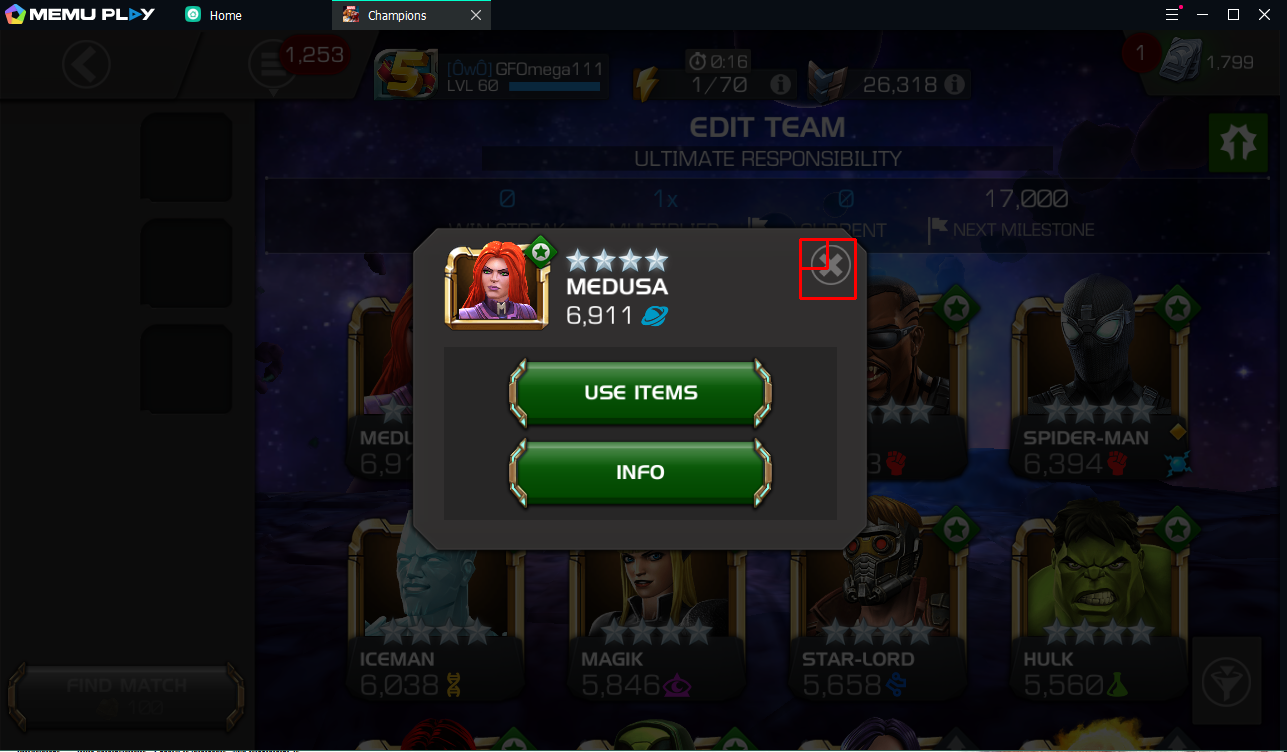
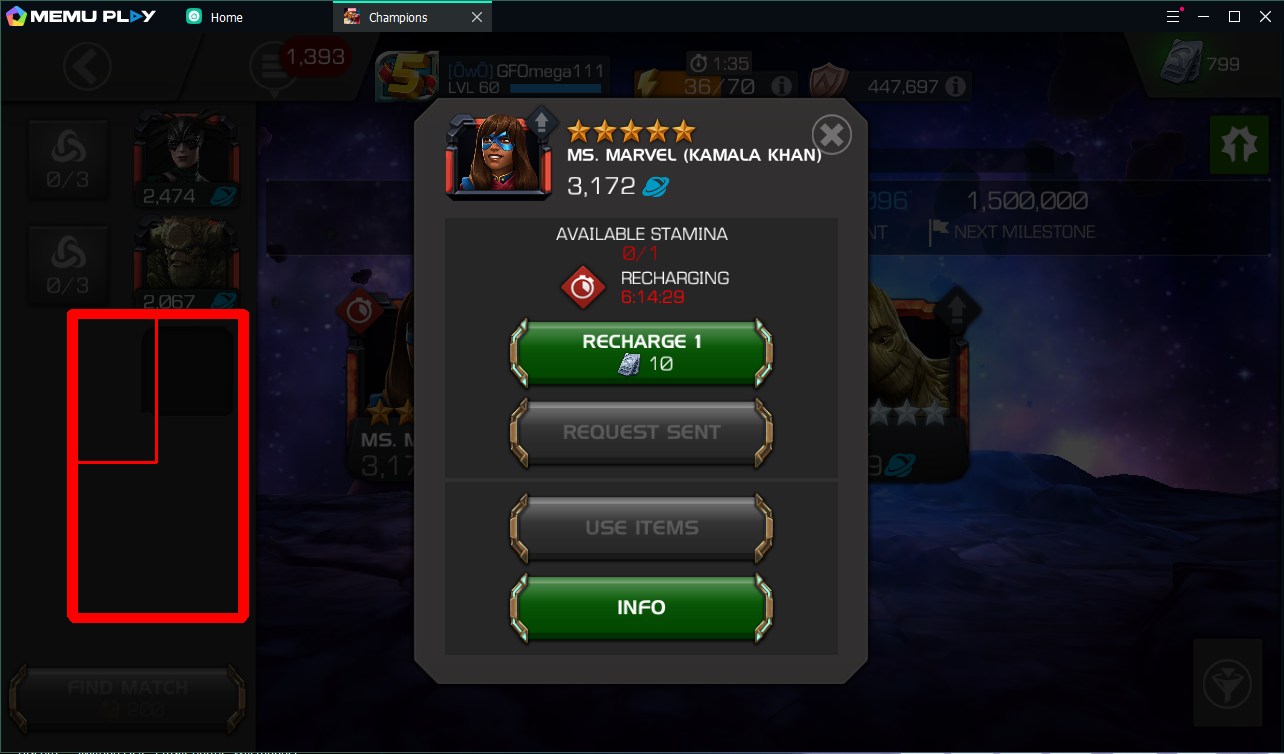
Added new vision test to stop getting stuck

diff --git a/game.py b/game.py
@@ -97,11 +97,11 @@ class Game:
     def champ_setup(self):
         matchedhelp = self.vision.find_template('help-button')
         matchedempty = self.vision.find_template('empty-slot-bottom')
-        coord = self.vision.find_template_center('exit')
+        matchedinfo = self.vision.find_template('info')
         time.sleep(0.5)
-        if coord:
-            self.controller.click_button(coord[0], coord[1])
-            time.sleep(1)
+        if matchedinfo:
+            self.controller.click_button(156,400)
+            time.sleep(0.5)
         elif matchedhelp:
             self.controller.action_key('h', 0.2)
             time.sleep(1)

diff --git a/vision.py b/vision.py
@@ -19,7 +19,8 @@ class Vision:
             'pause' : r'images\pause.png',
             'exit' : r'images\exit.png',
             'find-match-free' : r'images\find-match-free.png',
-            'find-match-2000' : r'images\find-match-2000.png'
+            'find-match-2000' : r'images\find-match-2000.png',
+            'info' : r'images\info.png'
         }
 
         self.templates = { k: cv2.imread(v, 0) for (k, v) in self.static_templates.items()}

diff --git a/cvtest.py b/cvtest.py
@@ -2,9 +2,9 @@ import cv2
 import numpy as np
 from matplotlib import pyplot as plt
 
-img_rgb = cv2.imread(r'images\aex-6.png')
+img_rgb = cv2.imread(r'images\aex-7.png')
 img_gray = cv2.cvtColor(img_rgb, cv2.COLOR_BGR2GRAY)
-template = cv2.imread(r'images\exit.png', 0)
+template = cv2.imread(r'images\empty-slot-bottom.png', 0)
 w, h = template.shape[::-1]
 
 res = cv2.matchTemplate(img_gray,template,cv2.TM_CCOEFF_NORMED)

diff --git a/images/pynputtest.py b/images/pynputtest.py
@@ -1,0 +1,8 @@
+import time
+
+try:
+    while True:
+        print(time.time)
+        time.sleep(1)
+except KeyboardInterrupt:
+    pass
